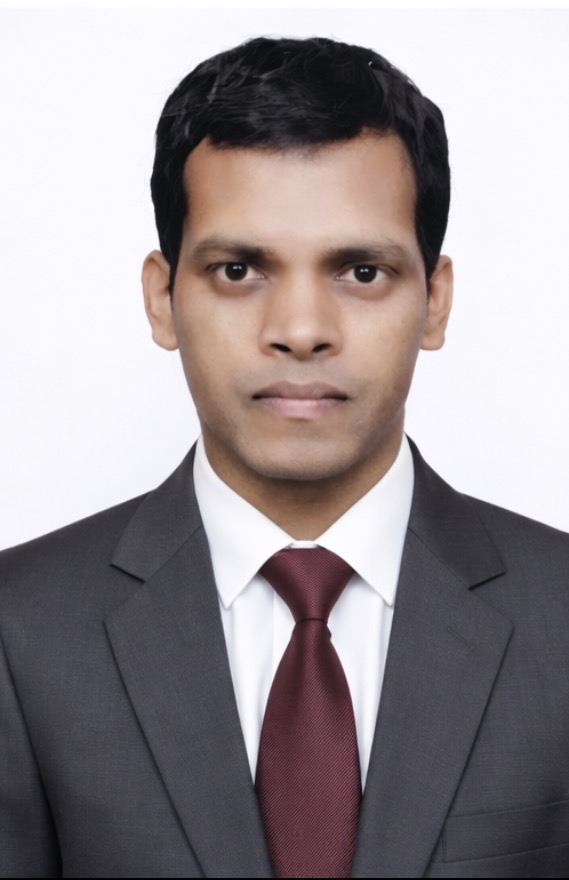
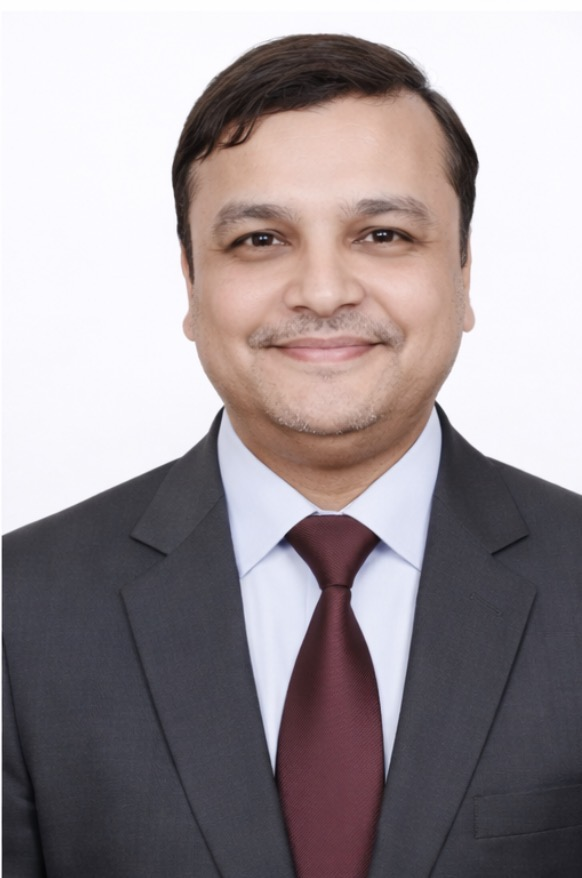
folder

diff --git a/script.js b/script.js
@@ -523,7 +523,6 @@ let scrollTopBtn;
                 <div class="testimonial-slide ${index === 0 ? 'active' : ''}" data-index="${index}">
                     <div class="testimonial-card">
                         <div class="testimonial-header">
-                            <div class="testimonial-photo">${testimonial.photo}</div>
                             <div class="testimonial-info">
                                 <p class="testimonial-author">${testimonial.name}</p>
                                 <p class="testimonial-level">${testimonial.title}</p>

diff --git a/style.css b/style.css
@@ -2070,3 +2070,26 @@ body {
 }
 
 video{object-fit:contain;}
+
+
+/* Hide testimonial photos */
+
+
+/* Hide only testimonial photos, not faculty photos */
+.testimonial-card .testimonial-photo {
+  display: none;
+}
+
+/* Ensure faculty images are visible */
+.faculty img,
+.faculty-photo,
+.faculty-card img {
+  display: block !important;
+  visibility: visible !important;
+  opacity: 1 !important;
+}
+
+/* Hide only testimonial photos */
+.testimonial-card .testimonial-photo {
+  display: none;
+}

diff --git a/index.html b/index.html
@@ -245,7 +245,7 @@
     What Our Students Say
    </h2>
    <p class="section-subtitle">
-    Real results from real students
+    Success stories powered by dedication
    </p>
    <div class="testimonials-carousel" id="testimonialsCarousel">
    </div>
